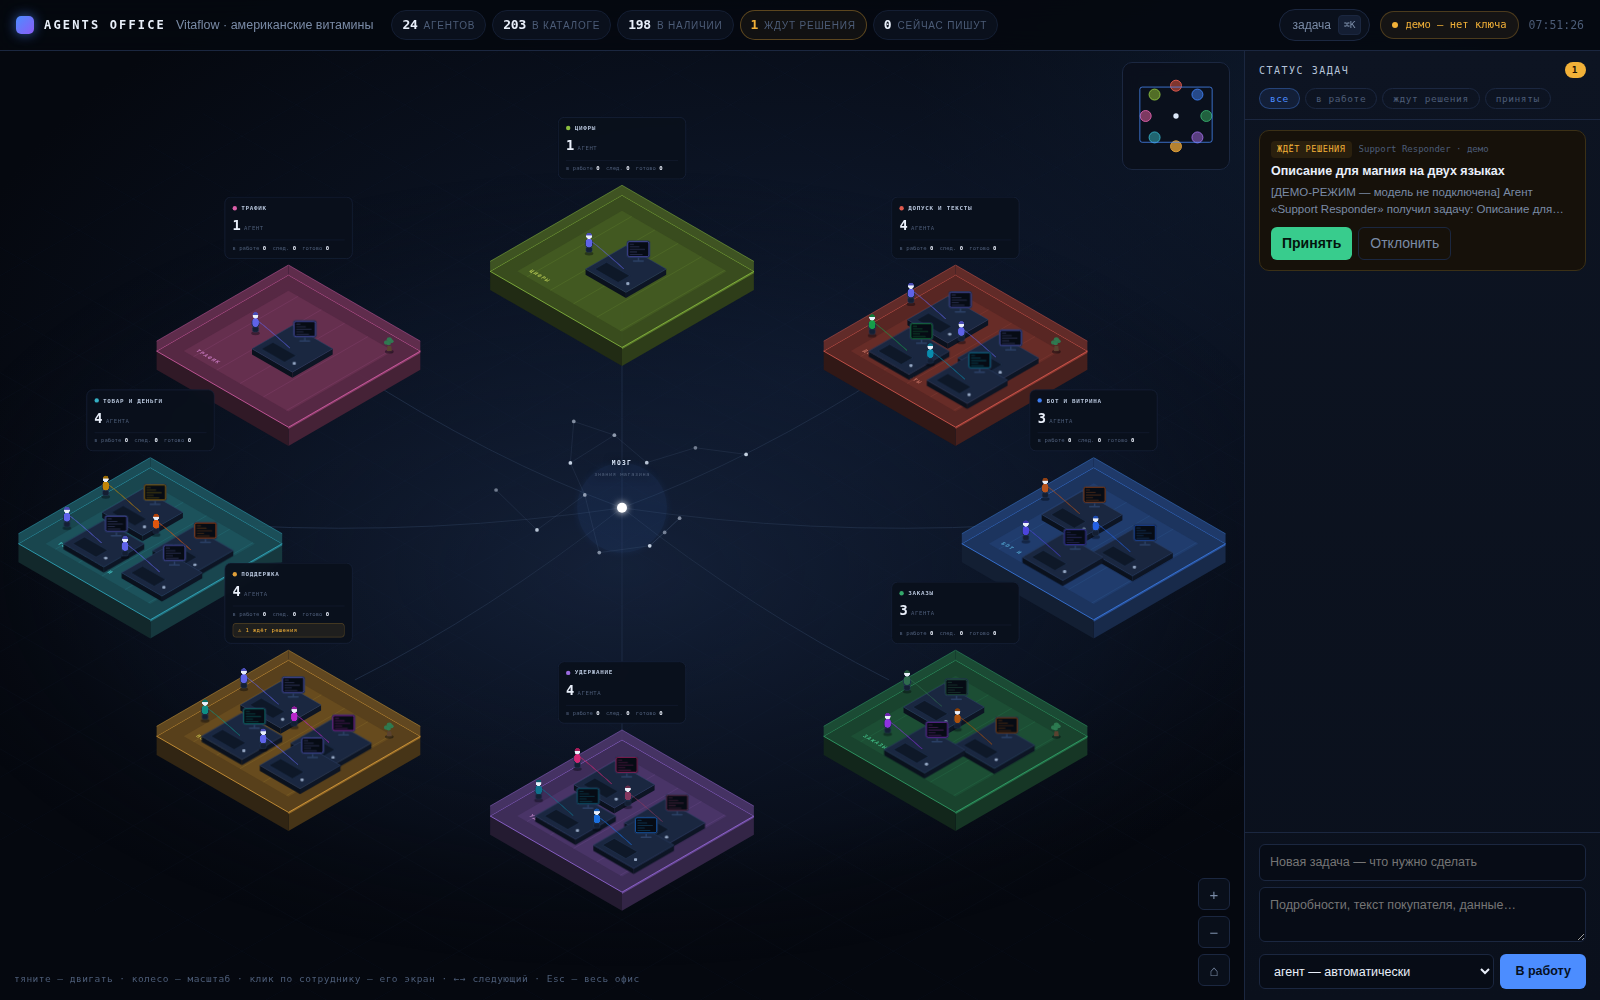
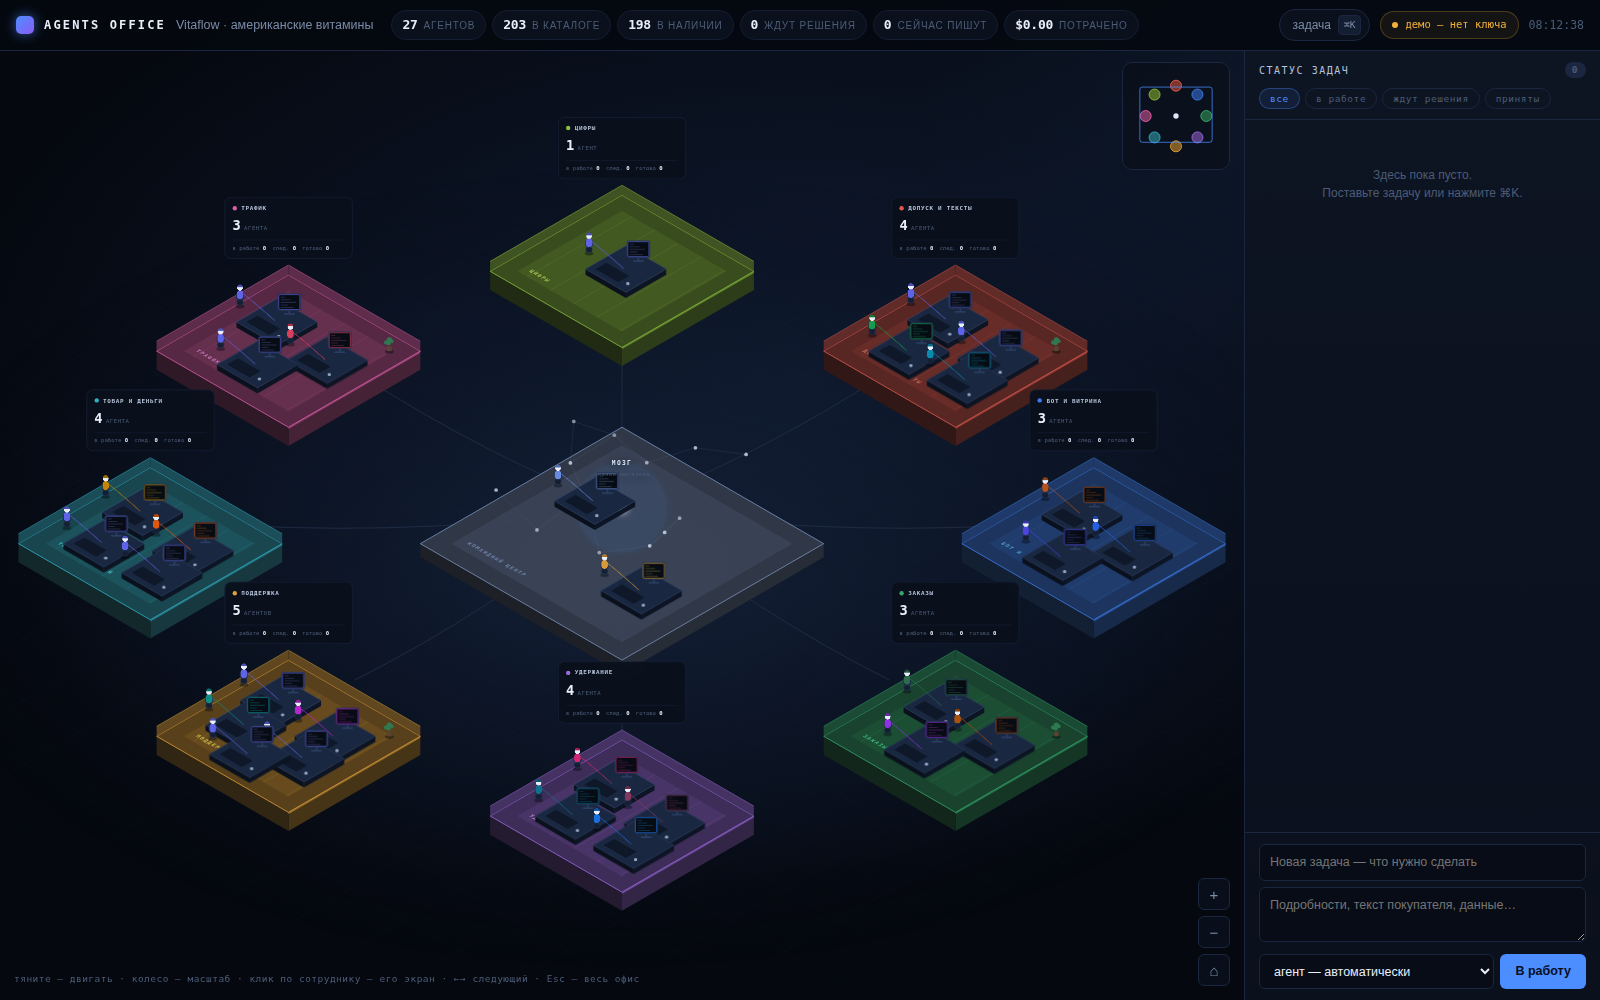
Show the orchestrator and the supervisor as people in the office
The orchestrator and the reviewer existed only in code, so the owner read the
office as having no one in charge. They now sit at their own workstations on a
command-centre slab in the middle of the floor plan, with the knowledge pack
glowing above them.

Their desks are live: the orchestrator's screen lights up while a task is being
routed, the supervisor's while work is under review, and each shows how many
tasks passed through and how many were sent back. Clicking either one flies the
camera in and explains the role, the same way it does for an agent.

Task now carries a stage (routing / writing / review / rework) so the scene can
tell which of the two is working at any moment.

Verified: 29 desks render (27 agents plus the two), both core desks are
clickable, and the demo build shows a task going out for rework and coming back.

Claude-Session: https://claude.ai/code/session_01MAMiWevKeS7c3x9GHm2KT8

diff --git a/examples/agents-office/public/scene.js b/examples/agents-office/public/scene.js
@@ -101,7 +101,7 @@
       gWires.appendChild(wire);
     });
 
-    gPlates.appendChild(buildBrain(c));
+    gPlates.appendChild(this.buildCore(c));
 
     // дальние этажи рисуем первыми — правильное перекрытие
     [...this.layout].sort((a, b) => (a.cx + a.cy) - (b.cx + b.cy))
@@ -190,6 +190,68 @@
     g.appendChild(mk('circle', { cx: c[0], cy: c[1], r: 8, fill: '#FFF', filter: 'url(#glow)' }));
     return g;
   }
+
+  /* ---------- командный центр ---------- */
+
+  /** В середине офиса сидят двое: оркестратор раздаёт задачи,
+      управляющий принимает работу или возвращает её. Над ними — общая память. */
+  Office.buildCore = function (c) {
+    const g = mk('g');
+    const tint = '#8FA8D8';
+    const H = 26;
+
+    const N = proj(-H, -H), E = proj(H, -H), S = proj(H, H), W = proj(-H, H);
+    const down = (p) => [p[0], p[1] + 22];
+    g.appendChild(mk('polygon', { points: pts([E, S, down(S), down(E)]), fill: mixDark(tint, 0.78) }));
+    g.appendChild(mk('polygon', { points: pts([S, W, down(W), down(S)]), fill: mixDark(tint, 0.86) }));
+    g.appendChild(mk('polygon', {
+      points: pts([N, E, S, W]), fill: mixDark(tint, 0.7),
+      stroke: shade(tint, 0.95), 'stroke-width': 1.2, opacity: 0.97,
+    }));
+    g.appendChild(mk('polygon', {
+      points: pts([proj(-H + 4, -H + 4), proj(H - 4, -H + 4), proj(H - 4, H - 4), proj(-H + 4, H - 4)]),
+      fill: mixDark(tint, 0.58), opacity: 0.55,
+    }));
+
+    const label = mk('text', {
+      fill: shade(tint, 1.1), opacity: 0.55,
+      'font-size': 8.5, 'font-family': 'JetBrains Mono, monospace',
+      'letter-spacing': 2, 'font-weight': 700,
+      transform: `translate(${proj(-H + 6, H - 6)[0]} ${proj(-H + 6, H - 6)[1]}) matrix(0.866 0.5 -0.866 0.5 0 0)`,
+    });
+    label.textContent = 'КОМАНДНЫЙ ЦЕНТР';
+    g.appendChild(label);
+
+    g.appendChild(buildBrain(c));
+
+    const CORE = [
+      { id: '__router', name: 'Оркестратор', emoji: '🎛', color: '#6F8FE8', x: -13, y: -6,
+        description: 'Принимает задачу, выбирает исполнителя, ведёт очередь' },
+      { id: '__reviewer', name: 'Управляющий', emoji: '🧐', color: '#E0A03A', x: 13, y: 8,
+        description: 'Проверяет работу по правилам магазина: принять или вернуть' },
+    ];
+    for (const a of CORE) g.appendChild(this.buildWorkstation(a, a.x, a.y, tint));
+    this.core = CORE;
+
+    return g;
+  };
+
+  /** Сколько задач сейчас у оркестратора и управляющего. */
+  Office.coreStats = function () {
+    const t = this.state.tasks || [];
+    return {
+      __router: {
+        active: t.filter((x) => x.stage === 'routing').length,
+        waiting: 0,
+        done: t.filter((x) => x.agentId).length,
+      },
+      __reviewer: {
+        active: t.filter((x) => x.stage === 'review').length,
+        waiting: t.filter((x) => x.review?.verdict === 'rework').length,
+        done: t.filter((x) => x.review?.verdict === 'ok').length,
+      },
+    };
+  };
 
   /* ---------- этаж отдела ---------- */
 
@@ -420,11 +482,15 @@
   /* ================= обновление данными ================= */
 
   Office.statsOf = function (id) {
+    if (id === '__router' || id === '__reviewer') return this.coreStats()[id];
     return this.state.stats?.byAgent?.[id] || { active: 0, waiting: 0, done: 0 };
   };
 
   Office.taskOf = function (id) {
     const t = this.state.tasks || [];
+    if (id === '__router') return t.find((x) => x.stage === 'routing') || null;
+    if (id === '__reviewer') return t.find((x) => x.stage === 'review')
+      || t.find((x) => x.review) || null;
     return t.find((x) => x.agentId === id && (x.status === 'working' || x.status === 'routing'))
         || t.find((x) => x.agentId === id && x.status === 'waiting_approval')
         || t.find((x) => x.agentId === id) || null;
@@ -460,17 +526,30 @@
          ${s.waiting ? `<div class="card-alert">⚠ ${s.waiting} ${plural(s.waiting, 'ждёт', 'ждут', 'ждут')} решения</div>` : ''}`;
     }
 
-    for (const a of this.agents) {
+    for (const a of [...this.agents, ...(this.core || [])]) {
       const s = this.statsOf(a.id);
       const busy = s.active > 0;
       const mon = this.nodes.monitors[a.id];
+      if (!mon) continue;
       mon.g.querySelector('.fig').classList.toggle('busy-now', busy);
       mon.lines.classList.toggle('typing', busy);
       mon.face.setAttribute('fill', busy ? '#0C1B36' : '#060B14');
       mon.face.style.filter = busy ? 'url(#softglow)' : '';
 
-      const task = this.taskOf(a.id);
       const scr = this.nodes.screens[a.id];
+      if (a.id === '__router' || a.id === '__reviewer') {
+        const routing = (this.state.tasks || []).find((x) =>
+          x.stage === (a.id === '__router' ? 'routing' : 'review'));
+        scr.classList.toggle('live', busy);
+        scr.querySelector('b').textContent = busy
+          ? (a.id === '__router' ? 'подбираю исполнителя' : 'проверяю работу')
+          : 'свободен';
+        scr.querySelector('i').textContent = routing
+          ? routing.title
+          : `принято ${s.done}${s.waiting ? ` · возвращено ${s.waiting}` : ''}`;
+        continue;
+      }
+      const task = this.taskOf(a.id);
       const text = busy ? (task?.partial || '') : (task?.output || '');
       scr.classList.toggle('live', busy);
       scr.querySelector('b').textContent = busy ? (task?.title || 'работает')
@@ -626,8 +705,17 @@
   };
 
   Office.focusAgent = function (id) {
-    const agent = this.agents.find((a) => a.id === id);
+    const agent = this.agents.find((a) => a.id === id)
+      || (this.core || []).find((a) => a.id === id);
     if (!agent) return;
+    if (id === '__router' || id === '__reviewer') {
+      const mon = this.nodes.monitors[id];
+      this.focusedAgent = id;
+      this.flyTo(mon.at[0], mon.at[1] + 14, 2.4, 860);
+      this.showBar(agent.name);
+      this.refreshFocusPanel();
+      return;
+    }
     this.focusedBlock = agent.block;
     this.focusedAgent = id;
     const mon = this.nodes.monitors[id];
@@ -642,7 +730,8 @@
   };
 
   Office.refreshFocusPanel = function () {
-    const agent = this.agents.find((a) => a.id === this.focusedAgent);
+    const agent = this.agents.find((a) => a.id === this.focusedAgent)
+      || (this.core || []).find((a) => a.id === this.focusedAgent);
     if (!agent) return;
     const s = this.statsOf(agent.id);
     const task = this.taskOf(agent.id);
@@ -669,8 +758,9 @@
     body.scrollTop = body.scrollHeight;
 
     const done = this.statsOf(agent.id).done;
-    panel.querySelector('.ap-meta').textContent =
-      `${agent.block} · волна ${agent.wave} · принято ${done}` + (agent.custom ? ' · написан под Vitaflow' : '');
+    panel.querySelector('.ap-meta').textContent = agent.block
+      ? `${agent.block} · волна ${agent.wave} · принято ${done}` + (agent.custom ? ' · написан под Vitaflow' : '')
+      : `командный центр · через него прошло ${done}`;
   };
 
   Office.showBar = function (label) {

diff --git a/examples/agents-office/src/orchestrator.js b/examples/agents-office/src/orchestrator.js
@@ -71,7 +71,7 @@ export class Orchestrator {
       let agentId = task.agentId;
       let routedCost = 0;
       if (!agentId) {
-        this.store.updateTask(taskId, { status: 'routing' }, { event: 'task.routing', message: task.title });
+        this.store.updateTask(taskId, { status: 'routing', stage: 'routing' }, { event: 'task.routing', message: task.title });
         const routed = await routeTask({ agents: this.agents, task });
         agentId = routed.agentId;
         routedCost = routed.model ? costOf(routed.model, routed.usage) : 0;
@@ -103,7 +103,7 @@ export class Orchestrator {
                  `\n\nПредыдущая версия:\n${result.text}`,
         };
 
-        this.store.updateTask(taskId, { round: round + 1 });
+        this.store.updateTask(taskId, { round: round + 1, stage: round === 0 ? 'writing' : 'rework' });
         result = await runAgent({
           agent,
           task: taskForRun,
@@ -125,6 +125,7 @@ export class Orchestrator {
 
         if (!reviewEnabled() || result.mock) { verdict = null; break; }
 
+        this.store.updateTask(taskId, { stage: 'review' });
         this.store.progress(taskId, buffer + '\n\n[управляющий проверяет работу]\n', tools);
         const checked = await review({ agent, task, text: result.text });
         cost += checked.cost;
@@ -149,6 +150,7 @@ export class Orchestrator {
           tools,
           cost,
           review: verdict ? { verdict, notes } : null,
+          stage: null,
           mock: result.mock,
           finishedAt: new Date().toISOString(),
         },

diff --git a/examples/agents-office/README.md b/examples/agents-office/README.md
@@ -36,6 +36,19 @@
 Горячие клавиши: `⌘K` / `Ctrl+K` — быстрая задача, `←` `→` — следующий сотрудник,
 `Esc` — вернуться ко всему офису.
 
+## Командный центр
+
+В середине офиса стоит отдельная площадка — там сидят двое, и они не из реестра
+агентов, а часть самой системы:
+
+- **Оркестратор** (`src/orchestrator.js`) — принимает задачу, выбирает
+  исполнителя, ведёт очередь и статусы.
+- **Управляющий** (`src/review.js`) — смотрит готовую работу и решает,
+  выпускать её или вернуть.
+
+Над ними висит общая память — пакет знаний. Кликните по любому из них, чтобы
+увидеть, чем он занят: подбирает исполнителя, проверяет работу или свободен.
+
 ## Управляющий между агентом и вами
 
 Работа специалиста не попадает к вам напрямую. Сначала её смотрит **управляющий**
